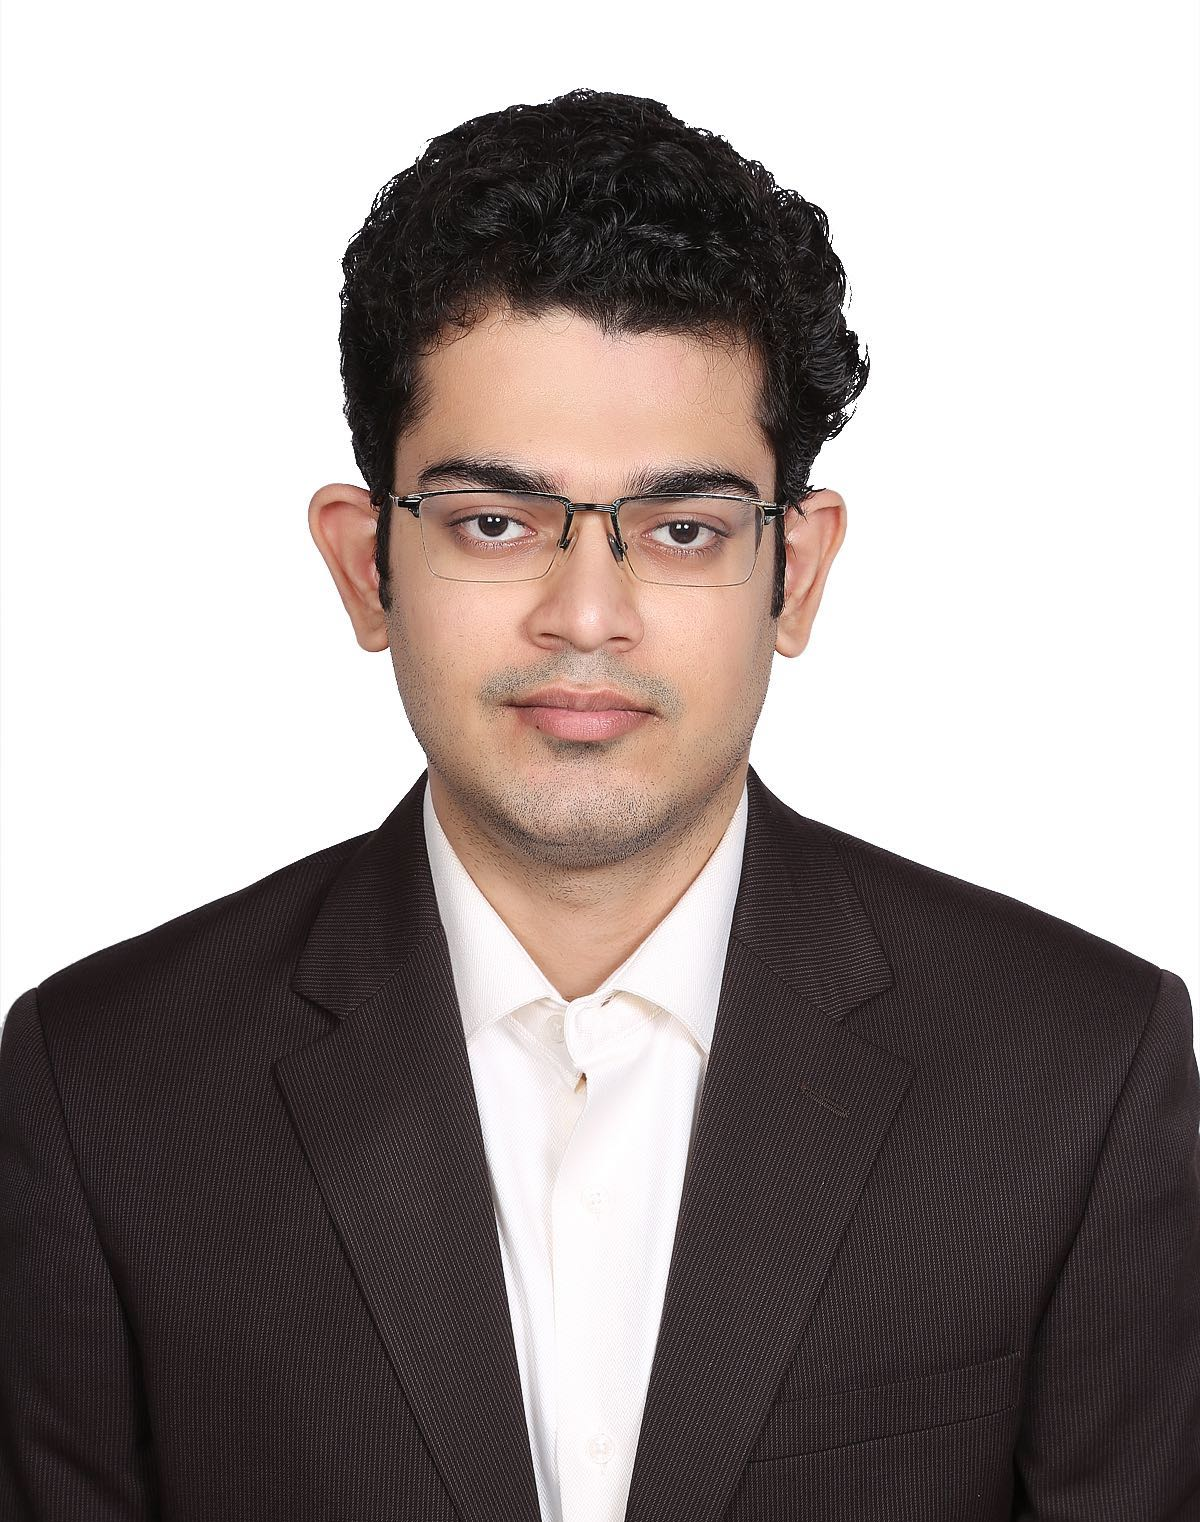
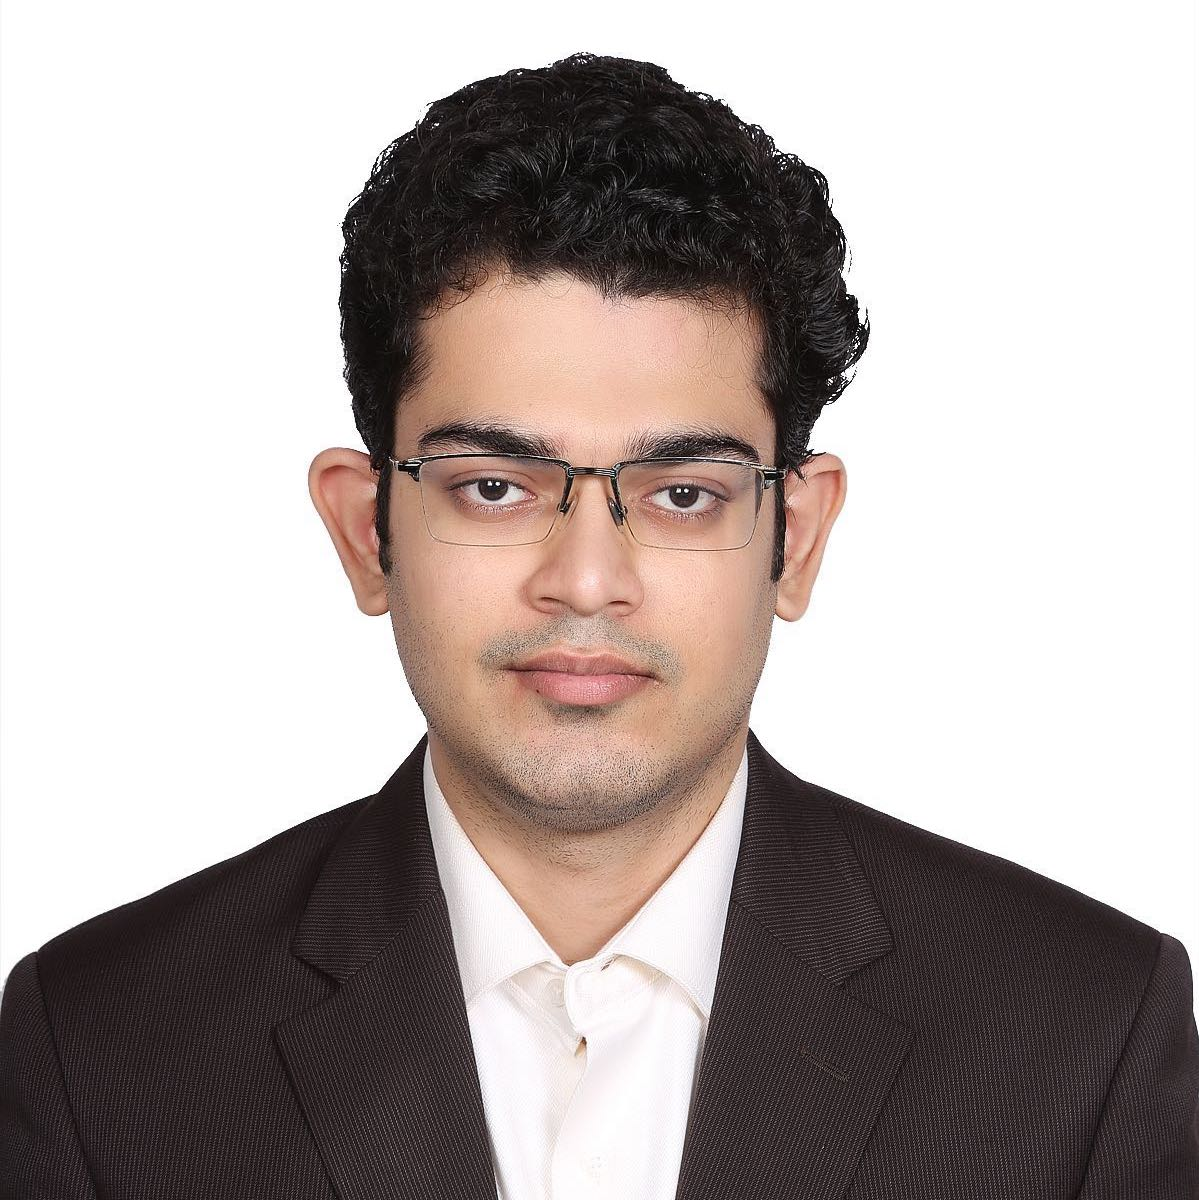
change sumesh photo

diff --git a/about.php b/about.php
@@ -447,10 +447,10 @@
                
                 <div class="column">
                     <div class="card">
-                        <img src="img/sumesh.png" alt="Sumesh" style="width:100%; height:270px; border-radius: 50%;">
+                        <img src="img/sumesh.jpg" alt="Sumesh" style="width:100%; height:270px; border-radius: 50%;">
                         <div class="container">
                             <h4 class="title title-name"> Sumesh K S</h4>
-                            <h6 class="title">Machine Learning Engineer</h6>
+                            <h6 class="title">Project Manager</h6>
                             <div class="short-line-team bg-red"></div>
                             <ul class="ul-list">
                                 <li>Binding fluid for the team</li>
